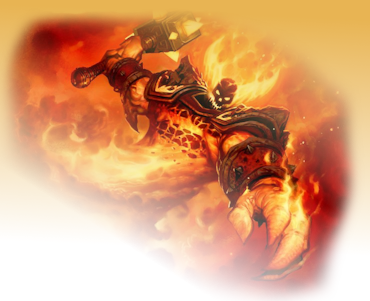
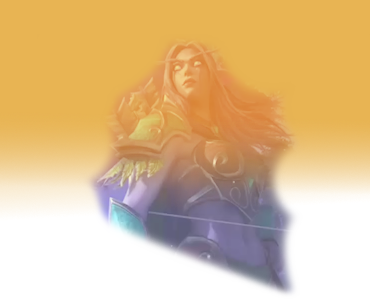
Update season 22

diff --git a/src/stores/challengers.ts b/src/stores/challengers.ts
@@ -45,10 +45,10 @@ export const useChallengersStore = defineStore("challengers", () => {
 
   const mode = ref<string>("points");
 
-  const latest = 21;
-  const season = 21;
+  const latest = 22;
+  const season = 22;
   const seasonDurationInWeeks = 15;
-  const start = moment("04.03.25", "DD.MM.YYYY");
+  const start = moment("23.06.25", "DD.MM.YYYY");
   const end = moment(start).add(seasonDurationInWeeks, "weeks");
   const duration = Math.abs(end.diff(start, "days"));
 

diff --git a/src/stores/settings.ts b/src/stores/settings.ts
@@ -14,9 +14,9 @@ export const useSettingsStore = defineStore("settings", () => {
     ladder: "",
   });
 
-  const season = 21;
+  const season = 22;
   const seasonDurationInWeeks = 15;
-  const start = moment("04.03.25", "DD.MM.YYYY");
+  const start = moment("23.06.25", "DD.MM.YYYY");
   const end = moment(start).add(seasonDurationInWeeks, "weeks");
   const duration = Math.abs(end.diff(start, "days"));
 

diff --git a/src/stores/events.ts b/src/stores/events.ts
@@ -37,7 +37,7 @@ export const useEventsStore = defineStore("events", () => {
   const daysSinceStart = today.diff(start, "days");
   const weekRule = moment().startOf("isoWeek");
   const monthRule = moment().startOf("month");
-  const latest = 21;
+  const latest = 22;
 
   const getData = async (tag: string) => {
     let result: IStatistics = {} as any;

diff --git a/src/stores/season.ts b/src/stores/season.ts
@@ -24,7 +24,7 @@ export const useSeasonStore = defineStore("season", () => {
 
   const searchResults = ref([]);
   const searching = ref(false);
-  const latest = 21;
+  const latest = 22;
 
   const gameModeStatsUrl = (tag: string, season: number) =>
     `https://website-backend.w3champions.com/api/players/${encodeURIComponent(

diff --git a/src/stores/escape.ts b/src/stores/escape.ts
@@ -36,7 +36,7 @@ export const useEscapeStore = defineStore("escape", () => {
   const today = moment().startOf("day");
   const daysSinceStart = today.diff(start, "days");
   const rule = moment().startOf("isoWeek");
-  const latest = 21;
+  const latest = 22;
 
   const getData = async (tag: string) => {
     let result = {};

diff --git a/src/stores/stats.ts b/src/stores/stats.ts
@@ -31,7 +31,7 @@ export const useStatsStore = defineStore("stats", () => {
 
   const searchResults = ref([]);
   const searching = ref(false);
-  const latest = 21;
+  const latest = 22;
 
   const currentUrl = (tag: string) =>
     `https://website-backend.w3champions.com/api/matches/ongoing/${encodeURIComponent(

diff --git a/src/views/SeasonView.vue b/src/views/SeasonView.vue
@@ -7,7 +7,7 @@ import { Race, raceIcon } from "@/stores/races";
 const settings = useSettingsStore();
 const store = useSeasonStore();
 
-const start = moment("04.03.25", "DD.MM.YYYY");
+const start = moment("23.06.25", "DD.MM.YYYY");
 const end = moment(start).add(15, "weeks");
 
 const today = moment();
